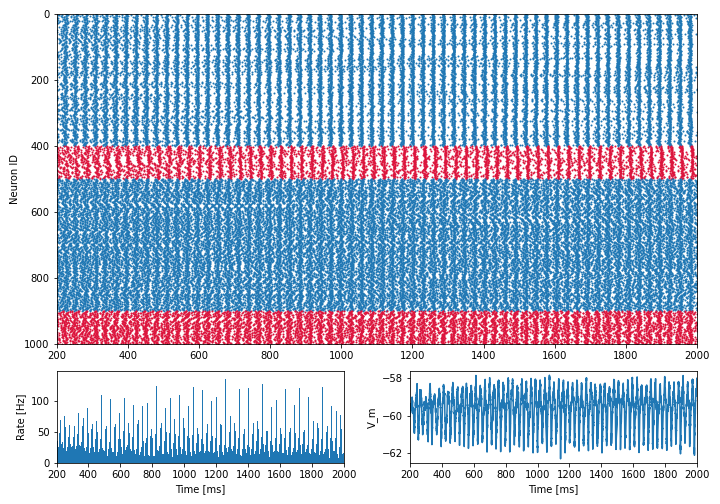
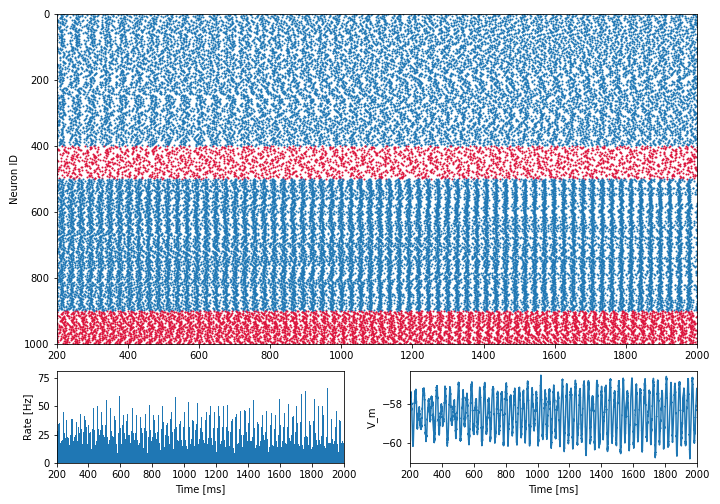
update

diff --git a/simulation/run.py b/simulation/run.py
@@ -3,7 +3,7 @@
 ######################
 import numpy as np
 import nest
-from functions import Network, raster, rate, get_irregularity, get_synchrony, get_firing_rate, create_spectrogram, create_spectral_density_plot
+from functions import Network, raster, rate, get_irregularity, get_synchrony, get_firing_rate, create_spectrogram, spectral_density
 import time
 import pickle
 import pandas as pd
@@ -160,7 +160,7 @@ if rank == 0:
         ## Plot spike data
         raster(spike_data[:2], vm_avg_1, params['rec_start'], params['rec_stop'], colors, network.get_nrec(), prefix="N1_", suffix=f"{str(int(params['th_in'])):0>4}")
         raster(spike_data[2:], vm_avg_2, params['rec_start'], params['rec_stop'], colors, network.get_nrec(), prefix="N2_", suffix=f"{str(int(params['th_in'])):0>4}")
-        raster(spike_data, vm_avg_2, params['rec_start'], params['rec_stop'], colors, network.get_nrec(), prefix="N2_", suffix=f"{str(int(params['th_in'])):0>4}")
+        raster(spike_data, np.average([vm_avg_1, vm_avg_2], axis=0), params['rec_start'], params['rec_stop'], colors, network.get_nrec(), prefix="N3_", suffix=f"{str(int(params['th_in'])):0>4}")
 
         #######################################################################
         ## Display the average firing rate in Hz
@@ -183,22 +183,94 @@ if rank == 0:
         create_spectrogram(vm_avg_1, fs, params['rec_start'], params['rec_stop'], f_min, f_max)
         create_spectrogram(vm_avg_2, fs, params['rec_start'], params['rec_stop'], f_min, f_max)
         
-        # create_spectral_density_plot(len(vm_avg_1), params['resolution']*1e-3, vm_avg_1)
-        # create_spectral_density_plot(len(vm_avg_1), params['resolution']*1e-3, vm_avg_2)
+        #spectral_density(len(vm_avg_1), params['resolution']*1e-3, vm_avg_1, get_peak=True)
+        #spectral_density(len(vm_avg_1), params['resolution']*1e-3, vm_avg_2, get_peak=True)
         
-        create_spectral_density_plot(len(vm_avg_1), params['resolution']*1e-3, [vm_avg_1, vm_avg_2])
+        ## Calculate the highest frequency in the data
+        peaks = spectral_density(len(vm_avg_1), params['resolution']*1e-3, [vm_avg_1, vm_avg_2], plot=True, get_peak=True)
+        
+        ## Check for synchronous behaviour
+        for i in range(len(peaks)):
+            if peaks[i] < 0:
+                print(f"No synchronous behaviour in network {i+1}")
+            else:
+                print(f"Synchronous behaviour in network {i+1} with a peak at {peaks[i]}Hz")
+                
+        
+        ## Difference in frequencies between the populations
+        df = abs(peaks[0] - peaks[1])
+        
+        
+    from scipy.signal import correlate, welch
+    
+    def analyze_spike_trains(spike_trains, resolution=0.1):
+        ## Convert resolution to seconds
+        resolution_sec = resolution / 1000.0
+        
+        ## Calculate autocorrelations per neuron
+        autocorrelations = [correlate(spike_train, spike_train[::-1], mode='full') for spike_train in spike_trains]
+        
+        ## Calculate power spectral densities
+        power_spectral_densities = [welch(autocorr, 
+                                          fs=1 / resolution_sec, 
+                                          nperseg=min(len(autocorr), int(1 / resolution_sec)), 
+                                          nfft=int(1 / resolution_sec)) for autocorr in autocorrelations]
+        
+        ## Restrict the frequency range
+        power_spectral_densities = [(freqs[valid_indices], powers[valid_indices]) for freqs, powers in power_spectral_densities \
+                                    if len(valid_indices := np.where((freqs >= 5) & (freqs <= 100))[0]) > 0]
+            
 
+        ## Frequency bands of potential interest (mostly beta and gamma)
+        frequency_bands = {
+            'theta': (4 ,  8),
+            'alpha': (8 , 12),
+            'beta' : (13, 30),
+            'gamma': (30, 80)
+        }
         
+        ## Compute the total power per neuron in each of the previously defined
+        ## frequency bands
+        band_powers = {band: [] for band in frequency_bands}
+    
+        for power_spectrum in power_spectral_densities:
+            freqs, powers = power_spectrum
+            for band, (fmin, fmax) in frequency_bands.items():
+                band_indices = np.where((freqs >= fmin) & (freqs <= fmax))[0]
+                if len(band_indices) > 0:
+                    band_power = np.sum(powers[band_indices])
+                    band_powers[band].append(band_power)
+                else:
+                    band_powers[band].append(0)
         
+        ## Compute measures of synchrony
+        synchrony_measures = {}
+    
+        ## Peak coherence. Frequency with the highest power
+        synchrony_measures['peak_coherence'] = [np.argmax(powers) for freqs, powers in power_spectral_densities]
+    
+        ## Total power
+        synchrony_measures['total_power'] = [np.sum(powers) for _, powers in power_spectral_densities]
+    
+        gamma_power = np.mean(band_powers['gamma'])
+        theta_power = np.mean(band_powers['theta'])
+        synchrony_measures['gamma_to_theta_ratio'] = gamma_power / theta_power
+    
+        return autocorrelations, power_spectral_densities, band_powers, synchrony_measures
+            
+    outcomes = []
+    for data in spike_data:
+        outcomes.append(analyze_spike_trains(data))
+        
+    import matplotlib.pyplot as plt
+    for outcome in outcomes:
+        for item in outcome[2].values():
+            plt.plot(item)
+        plt.legend(outcome[2].keys())
+        plt.show()
     
     ###########################################################################
     ## Calculate measures 
-    irregularity = [get_irregularity(population) for population in spike_data]
-    firing_rate  = [get_firing_rate(population, params['rec_start'], params['rec_stop']) for population in spike_data]
-    synchrony    = [get_synchrony(population, params['rec_start'], params['rec_stop']) for population in spike_data]
-    
-    ###########################################################################
-    ## Write results to file
-    # with open("sim_results", 'wb') as f:
-    #     data = (irregularity, synchrony, firing_rate)
-    #     pickle.dump(data, f)
+    # irregularity = [get_irregularity(population) for population in spike_data]
+    # firing_rate  = [get_firing_rate(population, params['rec_start'], params['rec_stop']) for population in spike_data]
+    # synchrony    = [get_synchrony(population, params['rec_start'], params['rec_stop']) for population in spike_data]

diff --git a/simulation/functions.py b/simulation/functions.py
@@ -428,32 +428,65 @@ def create_spectrogram(data, fs, t_start, t_end, f_min, f_max):
 
     return im.get_array()
 
-def create_spectral_density_plot(timesteps, resolution, data):
+def spectral_density(timesteps, resolution, data, cutoff=1e7, plot=True, get_peak=False):
         ## Compute the power spectral density (PSD)
         frequencies = np.fft.fftfreq(timesteps, resolution)
-        
+
         ## Compute the Fourier transform
-        plt.figure()
+        if plot:
+            plt.figure()
+            
+        psd_return = []
         if type(data) == list:
             for i in range(len(data)):
                 data_zero = data[i] - np.mean(data[i])
                 xf = np.fft.fft(data_zero)
                 psd = np.abs(xf)**2
-                plt.plot(frequencies, psd, label=f"Dataset {i+1}")
+                psd_return.append(psd)
+                if plot:
+                    plt.plot(frequencies, psd, label=f"Dataset {i+1}")
         else:
             data_zero = data - np.mean(data)
             xf = np.fft.fft(data_zero) 
             ## Compute the power spectral density
             psd = np.abs(xf)**2  
             ## Plot the spectral density
-            plt.plot(frequencies, psd)
+            if plot:
+                plt.plot(frequencies, psd)
+            psd_return.append(psd)
+            
+        if plot:
+            plt.xlabel('Frequency [Hz]')
+            plt.ylabel('Power Spectral Density')
+            plt.xlim(0, 80)
+            plt.axhline(y=cutoff, color='black', linestyle='--')
+            plt.title('Spectral Density Plot')
+            plt.grid(True)
+            plt.show()
         
-        plt.xlabel('Frequency [Hz]')
-        plt.ylabel('Power Spectral Density')
-        plt.xlim(0, 80)
-        plt.title('Spectral Density Plot')
-        plt.grid(True)
-        plt.show()
+        if get_peak:
+            if len(psd_return) > 1:
+                ## Find indices where the greatest peak lies. If the peak is below a
+                ## certain cutoff value, add -1 instead to signify no sufficient
+                ## synchronous behaviour
+                max_index = [np.argmax(i[:len(i)//2]) if i[np.argmax(i[:len(i)//2])] >= cutoff else -1 for i in psd_return]
+                
+                ## If there was no significant synchronous behaviour return 0
+                ## as 'peak frequency'
+                peak = np.array([frequencies[x] if x > -1 else -1 for x in max_index])
+                
+                ## Delete negative frequencies except -1
+                peak = peak[peak>=-1]
+                    
+            else:
+                max_index = np.argmax(psd_return[0][:len(psd_return[0])//2])
+                
+                if psd_return[0][max_index] >= cutoff:
+                    peak = frequencies[max_index]
+                    peak = peak[peak>0]
+                else:
+                    peak = -1
+            return peak
   
 def rate(spikes, rec_start, rec_stop):
     """

diff --git a/simulation/setup.py b/simulation/setup.py
@@ -82,31 +82,31 @@ def setup():
         
         'pop_name'   : ['L1_E', 'L1_I',
                         'L2_E' , 'L2_I'],
-        'connection_strength': 0.6
+        'connection_strength': 0.0
         }
     ## AI Regime
     # {
-    #                      'V_m'        :  -70.,
-    #                      'V_th'       :  -50.,
-    #                      'V_reset'    :  -76.,
-    #                      'C_m'        :  250.,
-    #                      't_ref'      :    3.,
-    #                      'tau_syn_ex' :     1,
-    #                      'tau_syn_in' :     1,
-    #                      'E_L'        : -65.0,
-    #                      'tau_m'      :  20.0,
-    #                  },
-    #                  {
-    #                      'V_m'        :  -70.,
-    #                      'V_th'       :  -49.,
-    #                      'V_reset'    :  -76.,
-    #                      'C_m'        :  250.,
-    #                      't_ref'      :    4.,
-    #                      'tau_syn_ex' :     1,
-    #                      'tau_syn_in' :     1,
-    #                      'E_L'        : -65.0,
-    #                      'tau_m'      :  20.0,
-    #                  },
+    #                       'V_m'        :  -70.,
+    #                       'V_th'       :  -50.,
+    #                       'V_reset'    :  -76.,
+    #                       'C_m'        :  250.,
+    #                       't_ref'      :    3.,
+    #                       'tau_syn_ex' :     1,
+    #                       'tau_syn_in' :     1,
+    #                       'E_L'        : -65.0,
+    #                       'tau_m'      :  20.0,
+    #                   },
+    #                   {
+    #                       'V_m'        :  -70.,
+    #                       'V_th'       :  -49.,
+    #                       'V_reset'    :  -76.,
+    #                       'C_m'        :  250.,
+    #                       't_ref'      :    4.,
+    #                       'tau_syn_ex' :     1,
+    #                       'tau_syn_in' :     1,
+    #                       'E_L'        : -65.0,
+    #                       'tau_m'      :  20.0,
+    #                   },
     ###########################################################################
     ## Gamma/Beta Oscillations
     # [{
